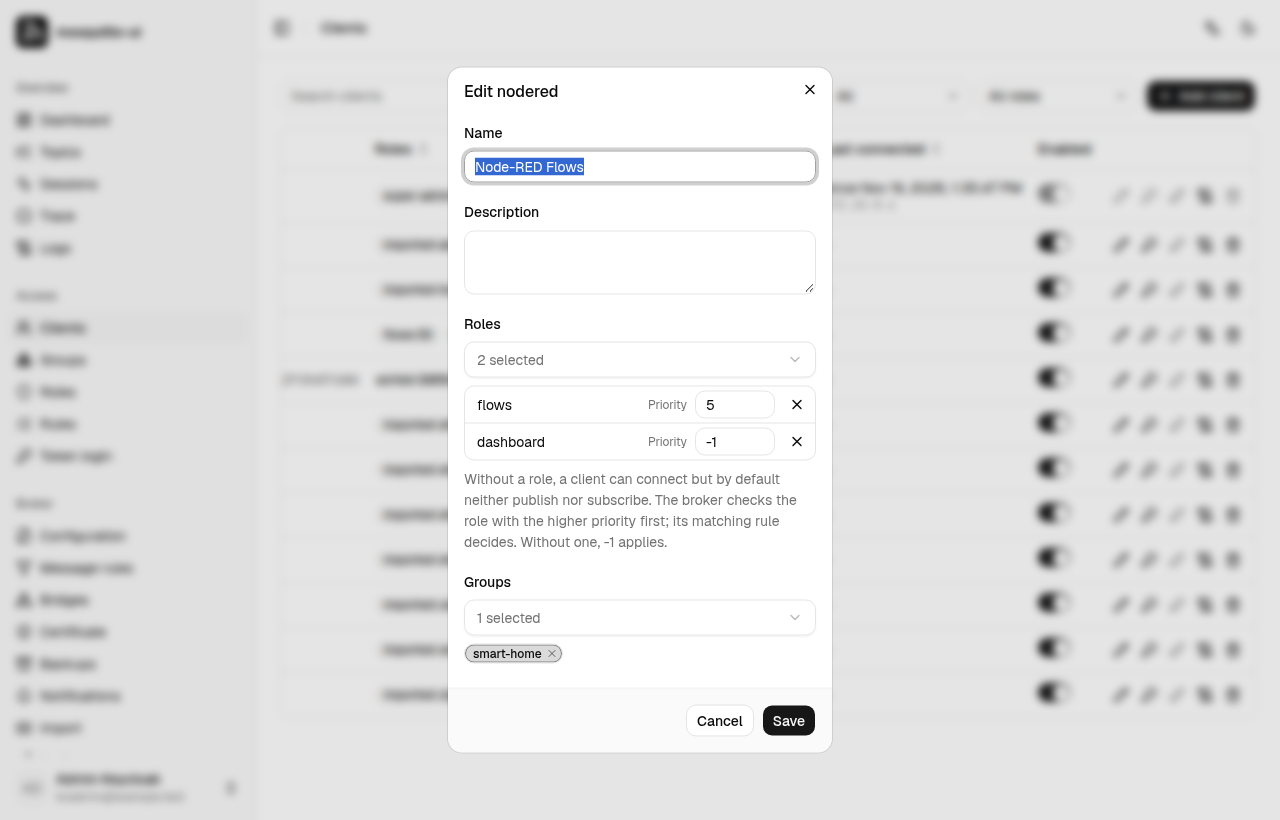
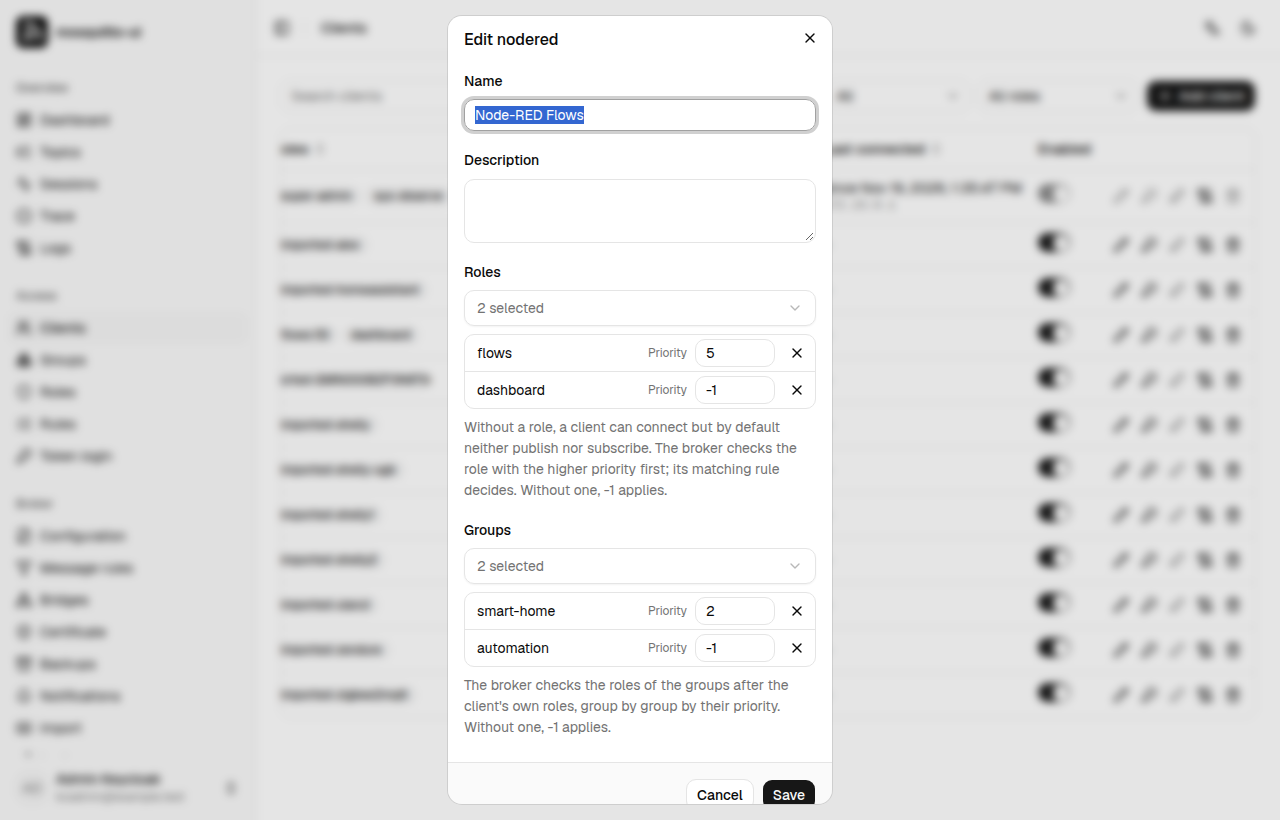
Clients: the priorities of their groups can be set
- The client dialog lists the groups of a client with a field for the priority, like its
  roles; their roles come after the client's own, group by group by that priority. The
  table shows a set priority after the group.
- The API gives groupPriorities with a client and takes them optionally on create and
  update; a group without one keeps its priority, a new one gets -1.
- Handbook (DE/EN/FR): group priorities of a client, screenshot of the client dialog.

Source: 6e5f137d71c133ceec5c84fe2064d2b80f802812

diff --git a/src/main/webui/src/pages/clients.tsx b/src/main/webui/src/pages/clients.tsx
@@ -10,7 +10,7 @@ import { ConfirmDialog } from "@/components/confirm-dialog"
 import { DisconnectHint } from "@/components/disconnect-hint"
 import { BadgeList } from "@/components/badge-list"
 import { MultiSelect } from "@/components/multi-select"
-import { RolePriorities } from "@/components/role-priorities"
+import { PriorityList } from "@/components/priority-list"
 import { PageToolbar } from "@/components/page-toolbar"
 import { SortableHead } from "@/components/sortable-head"
 import { TablePagination } from "@/components/table-pagination"
@@ -25,8 +25,8 @@ import { Spinner } from "@/components/ui/spinner"
 import { Switch } from "@/components/ui/switch"
 import { Table, TableBody, TableCell, TableHead, TableHeader, TableRow } from "@/components/ui/table"
 import { Textarea } from "@/components/ui/textarea"
-import { sameNames, useKickMinimal } from "@/lib/disconnects"
-import { chosenPriorities, prioritySuffix, rolesDiffer } from "@/lib/role-priorities"
+import { useKickMinimal } from "@/lib/disconnects"
+import { chosenPriorities, prioritySuffix, prioritiesDiffer } from "@/lib/priorities"
 import { useErrorToast } from "@/lib/errors"
 import { formatDateTime } from "@/lib/format"
 import { useTable } from "@/lib/use-table"
@@ -223,7 +223,7 @@ export function ClientsPage() {
                     <BadgeList names={client.roles} suffix={(role) => prioritySuffix(client.rolePriorities, role)} />
                   </TableCell>
                   <TableCell className="hidden lg:table-cell">
-                    <BadgeList names={client.groups} />
+                    <BadgeList names={client.groups} suffix={(group) => prioritySuffix(client.groupPriorities, group)} />
                   </TableCell>
                   <TableCell className="hidden md:table-cell" title={client.connections.join(", ")}>
                     <span className="inline-flex items-center gap-2">
@@ -342,19 +342,20 @@ function ClientDialog({ client, onClose }: { client: Client | null; onClose: () 
   const [roles, setRoles] = useState(client?.roles ?? [])
   const [priorities, setPriorities] = useState<Record<string, number>>(client?.rolePriorities ?? {})
   const [groups, setGroups] = useState(client?.groups ?? [])
+  const [groupPriorities, setGroupPriorities] = useState<Record<string, number>>(client?.groupPriorities ?? {})
   // the broker disconnects a client on every change of it, with minimal not for name and description
   const kickMinimal = useKickMinimal()
   const clientChanged =
     client !== null &&
-    (rolesDiffer(client.roles, client.rolePriorities, roles, priorities) || !sameNames(groups, client.groups) || (!kickMinimal && (textname !== client.textname || textdescription !== client.textdescription)))
+    (prioritiesDiffer(client.roles, client.rolePriorities, roles, priorities) || prioritiesDiffer(client.groups, client.groupPriorities, groups, groupPriorities) || (!kickMinimal && (textname !== client.textname || textdescription !== client.textdescription)))
 
   async function submit(event: FormEvent) {
     event.preventDefault()
     try {
       if (client) {
-        await update.mutateAsync({ params: { path: { username: client.username } }, body: { textname, textdescription, roles, groups, rolePriorities: chosenPriorities(roles, priorities) } })
+        await update.mutateAsync({ params: { path: { username: client.username } }, body: { textname, textdescription, roles, groups, rolePriorities: chosenPriorities(roles, priorities), groupPriorities: chosenPriorities(groups, groupPriorities) } })
       } else {
-        await create.mutateAsync({ body: { username, password, textname, textdescription, roles, groups, rolePriorities: chosenPriorities(roles, priorities) } })
+        await create.mutateAsync({ body: { username, password, textname, textdescription, roles, groups, rolePriorities: chosenPriorities(roles, priorities), groupPriorities: chosenPriorities(groups, groupPriorities) } })
       }
       toast.success(t("clients.saved"))
       await queryClient.invalidateQueries({ queryKey: clientsKey })
@@ -397,14 +398,16 @@ function ClientDialog({ client, onClose }: { client: Client | null; onClose: () 
             <Field>
               <FieldLabel>{t("nav.roles")}</FieldLabel>
               <MultiSelect idPrefix="client-role" label={t("nav.roles")} names={allRoles.data?.map((r) => r.rolename) ?? []} selected={roles} onChange={setRoles} chips={false} />
-              <RolePriorities idPrefix="client-role-priority" roles={roles} priorities={priorities} onPriorities={setPriorities} onRemove={(role) => setRoles(roles.filter((r) => r !== role))} />
+              <PriorityList idPrefix="client-role-priority" names={roles} priorities={priorities} onPriorities={setPriorities} onRemove={(role) => setRoles(roles.filter((r) => r !== role))} />
               <FieldDescription>
                 {t("clients.rolesHint")} {roles.length > 1 && t("roles.priorityHint")}
               </FieldDescription>
             </Field>
             <Field>
               <FieldLabel>{t("nav.groups")}</FieldLabel>
-              <MultiSelect idPrefix="client-group" label={t("nav.groups")} names={allGroups.data?.map((g) => g.groupname) ?? []} selected={groups} onChange={setGroups} />
+              <MultiSelect idPrefix="client-group" label={t("nav.groups")} names={allGroups.data?.map((g) => g.groupname) ?? []} selected={groups} onChange={setGroups} chips={false} />
+              <PriorityList idPrefix="client-group-priority" names={groups} priorities={groupPriorities} onPriorities={setGroupPriorities} onRemove={(group) => setGroups(groups.filter((g) => g !== group))} />
+              {groups.length > 0 && <FieldDescription>{t("clients.groupsPriorityHint")}</FieldDescription>}
             </Field>
           </FieldGroup>
           <DisconnectHint count={clientChanged && client.connections.length > 0 ? 1 : 0} />

diff --git a/src/main/webui/src/pages/groups.tsx b/src/main/webui/src/pages/groups.tsx
@@ -9,7 +9,7 @@ import { ConfirmDialog } from "@/components/confirm-dialog"
 import { DisconnectHint } from "@/components/disconnect-hint"
 import { BadgeList } from "@/components/badge-list"
 import { MultiSelect } from "@/components/multi-select"
-import { RolePriorities } from "@/components/role-priorities"
+import { PriorityList } from "@/components/priority-list"
 import { PageToolbar } from "@/components/page-toolbar"
 import { SortableHead } from "@/components/sortable-head"
 import { TablePagination } from "@/components/table-pagination"
@@ -23,7 +23,7 @@ import { Spinner } from "@/components/ui/spinner"
 import { Table, TableBody, TableCell, TableHead, TableHeader, TableRow } from "@/components/ui/table"
 import { Textarea } from "@/components/ui/textarea"
 import { connectedAmong, rolesChangeCanRevoke, useKickMinimal } from "@/lib/disconnects"
-import { chosenPriorities, prioritySuffix, rolesDiffer } from "@/lib/role-priorities"
+import { chosenPriorities, prioritySuffix, prioritiesDiffer } from "@/lib/priorities"
 import { useErrorToast } from "@/lib/errors"
 import { useTable } from "@/lib/use-table"
 
@@ -188,7 +188,7 @@ function GroupDialog({ group, onClose }: { group: Group | null; onClose: () => v
     group !== null &&
     (kickMinimal
       ? rolesChangeCanRevoke(group.roles, roles, allRoles.data, group.rolePriorities, priorities)
-      : textname !== group.textname || textdescription !== group.textdescription || rolesDiffer(group.roles, group.rolePriorities, roles, priorities))
+      : textname !== group.textname || textdescription !== group.textdescription || prioritiesDiffer(group.roles, group.rolePriorities, roles, priorities))
   const disconnected = group
     ? [...(groupChanged ? group.clients : []), ...clients.filter((name) => !group.clients.includes(name)), ...group.clients.filter((name) => !clients.includes(name))]
     : []
@@ -236,7 +236,7 @@ function GroupDialog({ group, onClose }: { group: Group | null; onClose: () => v
             <Field>
               <FieldLabel>{t("nav.roles")}</FieldLabel>
               <MultiSelect idPrefix="group-role" label={t("nav.roles")} names={allRoles.data?.map((r) => r.rolename) ?? []} selected={roles} onChange={setRoles} chips={false} />
-              <RolePriorities idPrefix="group-role-priority" roles={roles} priorities={priorities} onPriorities={setPriorities} onRemove={(role) => setRoles(roles.filter((r) => r !== role))} />
+              <PriorityList idPrefix="group-role-priority" names={roles} priorities={priorities} onPriorities={setPriorities} onRemove={(role) => setRoles(roles.filter((r) => r !== role))} />
               {roles.length > 1 && <FieldDescription>{t("roles.priorityHint")}</FieldDescription>}
             </Field>
             <Field>

diff --git a/docs/handbuch/fr/index.html b/docs/handbuch/fr/index.html
@@ -451,13 +451,14 @@ s'il se connecte, à quoi il s'abonne et si le broker refuse quelque chose.</p><
   <li>Création avec mot de passe, rôles et groupes&nbsp;; activation/désactivation (inactif&nbsp;: ne peut pas se connecter).</li>
   <li><strong>Rôles avec priorité&nbsp;:</strong> la fenêtre montre chaque rôle choisi avec sa priorité&nbsp;; le broker vérifie d'abord la plus élevée
     (voir <a href="#reihenfolge">Comment le broker décide</a>). Sans indication, -1 s'applique&nbsp;; le tableau affiche une autre valeur après le rôle, par exemple <code>sensor (5)</code>.
-    L'enregistrement conserve toutes les priorités, y compris celles des groupes d'un client, qui ne se règlent pas ici.</li>
+    Les groupes d'un client ont aussi une priorité&nbsp;: leurs rôles viennent après les siens, groupe par groupe selon cette priorité.
+    L'enregistrement conserve toutes les priorités que l'on ne modifie pas.</li>
   <li>Sur chaque ligne&nbsp;: modifier, changer le mot de passe, <em>Déconnecter</em> (toutes les connexions de cet identifiant&nbsp;; la plupart des appareils reviennent aussitôt), log, supprimer.</li>
   <li><em>Dernière connexion</em>, avec l'adresse, est mémorisée par l'UI elle-même, qui vérifie toutes les 15 secondes.</li>
   <li>De nouveaux rôles ou groupes déconnectent le client s'il est connecté&nbsp;; la fenêtre le signale avant. Le nom et la description ne touchent pas à la connexion, et enregistrer sans modification n'envoie rien au broker.</li>
   <li>En dessous, un tableau à part pour les clients venus avec un jeton d'accès.</li>
 </ul>
-<figure><img src="img/08-client-bearbeiten.png" alt="Fenêtre de modification d'un client" loading="lazy" width="1280" height="820"><figcaption>Les rôles d'un client avec leur priorité, en dessous ses groupes.</figcaption></figure>
+<figure><img src="img/08-client-bearbeiten.png" alt="Fenêtre de modification d'un client" loading="lazy" width="1280" height="820"><figcaption>Les rôles et les groupes d'un client, chacun avec sa priorité.</figcaption></figure>
 
 <h3 id="s-gruppen">Groupes et rôles</h3>
 <figure><img src="img/10-rollen.png" alt="Rôles avec leurs règles" loading="lazy" width="1280" height="820"><figcaption>Rôles avec leurs règles. Les rôles marqués d'un cadenas appartiennent à l'UI.</figcaption></figure>

diff --git a/docs/handbuch/index.html b/docs/handbuch/index.html
@@ -452,13 +452,14 @@ ob es sich verbindet, was es abonniert und ob der Broker etwas verweigert.</p></
   <li>Anlegen mit Passwort, Rollen und Gruppen; aktiv/inaktiv schalten (inaktiv: kann sich nicht anmelden).</li>
   <li><strong>Rollen mit Priorität:</strong> Im Dialog steht jede gewählte Rolle mit ihrer Priorität; die höhere prüft der Broker zuerst
     (siehe <a href="#reihenfolge">Wie der Broker entscheidet</a>). Ohne Angabe gilt -1, die Tabelle zeigt eine andere hinter der Rolle, etwa <code>sensor (5)</code>.
-    Beim Speichern bleiben alle Prioritäten erhalten, auch die der Gruppen eines Clients, die sich hier nicht setzen lassen.</li>
+    Die Gruppen eines Clients haben ebenso eine Priorität: Ihre Rollen kommen nach den eigenen, Gruppe für Gruppe nach dieser Priorität.
+    Beim Speichern bleiben alle Prioritäten erhalten, die man nicht ändert.</li>
   <li>Je Zeile: bearbeiten, Passwort ändern, <em>Trennen</em> (alle Verbindungen dieses Logins; die meisten Geräte kommen sofort wieder), Log, löschen.</li>
   <li><em>Zuletzt verbunden</em> mit Adresse merkt sich die UI selbst, sie schaut alle 15 Sekunden nach.</li>
   <li>Neue Rollen oder Gruppen trennen den Client, wenn er verbunden ist; der Dialog sagt es vorher. Name und Beschreibung ändern nichts an der Verbindung, Speichern ohne Änderung schickt nichts an den Broker.</li>
   <li>Darunter eine eigene Tabelle für Clients, die mit einem Access-Token gekommen sind.</li>
 </ul>
-<figure><img src="img/08-client-bearbeiten.png" alt="Dialog Client bearbeiten" loading="lazy" width="1280" height="820"><figcaption>Rollen eines Clients mit ihrer Priorität, darunter seine Gruppen.</figcaption></figure>
+<figure><img src="img/08-client-bearbeiten.png" alt="Dialog Client bearbeiten" loading="lazy" width="1280" height="820"><figcaption>Rollen und Gruppen eines Clients, jeweils mit ihrer Priorität.</figcaption></figure>
 
 <h3 id="s-gruppen">Gruppen und Rollen</h3>
 <figure><img src="img/10-rollen.png" alt="Rollen mit ihren Regeln" loading="lazy" width="1280" height="820"><figcaption>Rollen mit ihren Regeln. Rollen mit Schloss gehören zur UI.</figcaption></figure>

diff --git a/docs/handbuch/en/index.html b/docs/handbuch/en/index.html
@@ -449,13 +449,14 @@ whether it connects, what it subscribes to and whether the broker refuses anythi
   <li>Create with password, roles and groups; switch between enabled and disabled (disabled: cannot log in).</li>
   <li><strong>Roles with a priority:</strong> the dialog lists each chosen role with its priority; the broker checks the higher one first
     (see <a href="#reihenfolge">How the broker decides</a>). Without one, -1 applies; the table shows any other after the role, such as <code>sensor (5)</code>.
-    Saving keeps all priorities, also those of the groups of a client, which cannot be set here.</li>
+    The groups of a client have a priority as well: their roles come after its own, group by group by that priority.
+    Saving keeps every priority you do not change.</li>
   <li>Per row: edit, change password, <em>Disconnect</em> (all connections of this login; most devices come straight back), log, delete.</li>
   <li>The UI tracks <em>Last connected</em> with the address itself; it checks every 15 seconds.</li>
   <li>New roles or groups disconnect the client if it is connected; the dialog says so beforehand. Name and description leave the connection alone, and saving without a change sends nothing to the broker.</li>
   <li>Below, a separate table for clients that came with an access token.</li>
 </ul>
-<figure><img src="img/08-client-bearbeiten.png" alt="Edit client dialog" loading="lazy" width="1280" height="820"><figcaption>The roles of a client with their priorities, below its groups.</figcaption></figure>
+<figure><img src="img/08-client-bearbeiten.png" alt="Edit client dialog" loading="lazy" width="1280" height="820"><figcaption>The roles and groups of a client, each with its priority.</figcaption></figure>
 
 <h3 id="s-gruppen">Groups and Roles</h3>
 <figure><img src="img/10-rollen.png" alt="Roles with their rules" loading="lazy" width="1280" height="820"><figcaption>Roles with their rules. Roles with a lock belong to the UI.</figcaption></figure>

diff --git a/src/main/webui/src/components/priority-list.tsx b/src/main/webui/src/components/priority-list.tsx
@@ -4,29 +4,29 @@ import { useTranslation } from "react-i18next"
 
 import { Button } from "@/components/ui/button"
 import { Input } from "@/components/ui/input"
-import { priorityOf } from "@/lib/role-priorities"
+import { priorityOf } from "@/lib/priorities"
 
-/** The chosen roles of a client or group with their priorities; the broker checks the higher one first. */
-export function RolePriorities({
+/** Chosen roles or groups with their priorities; the broker checks the higher one first. */
+export function PriorityList({
   idPrefix,
-  roles,
+  names,
   priorities,
   onPriorities,
   onRemove,
 }: {
   idPrefix: string
-  roles: string[]
+  names: string[]
   priorities: Record<string, number>
   onPriorities: (priorities: Record<string, number>) => void
   onRemove: (role: string) => void
 }) {
   const { t } = useTranslation()
-  if (roles.length === 0) {
+  if (names.length === 0) {
     return null
   }
   return (
     <ul className="divide-y rounded-lg border">
-      {roles.map((role) => (
+      {names.map((role) => (
         <li key={role} className="flex items-center gap-2 py-1 pr-1 pl-3">
           <span className="min-w-0 flex-1 truncate text-sm" title={role}>
             {role}

diff --git a/src/main/webui/src/api/schema.d.ts b/src/main/webui/src/api/schema.d.ts
@@ -2003,6 +2003,9 @@ export interface components {
             rolePriorities?: {
                 [key: string]: number;
             } | null;
+            groupPriorities?: {
+                [key: string]: number;
+            } | null;
         };
         ClientLogin: {
             connectedAt: components["schemas"]["Instant"];
@@ -2017,6 +2020,9 @@ export interface components {
             rolePriorities?: {
                 [key: string]: number;
             } | null;
+            groupPriorities?: {
+                [key: string]: number;
+            } | null;
         };
         ClientView: {
             username: string;
@@ -2028,6 +2034,9 @@ export interface components {
                 [key: string]: number;
             };
             groups: string[];
+            groupPriorities: {
+                [key: string]: number;
+            };
             connections: string[];
             locked: boolean;
             lastLogin: components["schemas"]["ClientLogin"];

diff --git a/src/main/webui/src/lib/disconnects.ts b/src/main/webui/src/lib/disconnects.ts
@@ -1,5 +1,5 @@
 import { $api } from "@/api/client"
-import { priorityOf } from "@/lib/role-priorities"
+import { priorityOf } from "@/lib/priorities"
 
 /**
  * Dynamic security disconnects clients when their rights change, so that the broker checks their subscriptions again. With
@@ -16,12 +16,6 @@ type RoleRules = { rolename: string; allowwildcardsubs: boolean; acls: { acltype
 export function useKickMinimal() {
   const access = $api.useQuery("get", "/api/access")
   return access.data?.kick === "MINIMAL"
-}
-
-export function sameNames(a: readonly string[], b: readonly string[]) {
-  const left = new Set(a)
-  const right = new Set(b)
-  return left.size === right.size && [...left].every((name) => right.has(name))
 }
 
 function isSubscribe(acltype: string) {

diff --git a/src/main/webui/src/i18n/fr.ts b/src/main/webui/src/i18n/fr.ts
@@ -124,6 +124,7 @@ export default {
     passwordDesc: "Dès sa prochaine connexion, le client devra utiliser le nouveau mot de passe.",
     passwordTitle: "Mot de passe de {{name}}",
     rolesHint: "Sans rôle, un client peut se connecter, mais par défaut ni publier ni s'abonner.",
+    groupsPriorityHint: "Le broker vérifie les rôles des groupes après les rôles propres du client, groupe par groupe selon leur priorité. Sans indication, -1 s'applique.",
     saved: "Client enregistré",
     search: "Rechercher des clients",
     username: "Nom d'utilisateur",

diff --git a/src/main/webui/src/i18n/de.ts b/src/main/webui/src/i18n/de.ts
@@ -124,6 +124,7 @@ export default {
     passwordDesc: "Ab der nächsten Verbindung muss sich der Client mit dem neuen Passwort anmelden.",
     passwordTitle: "Passwort von {{name}}",
     rolesHint: "Ohne Rolle kann sich ein Client verbinden, aber standardmäßig weder publizieren noch abonnieren.",
+    groupsPriorityHint: "Die Rollen der Gruppen prüft der Broker nach den eigenen Rollen des Clients, Gruppe für Gruppe nach deren Priorität. Ohne Angabe gilt -1.",
     saved: "Client gespeichert",
     search: "Clients suchen",
     username: "Benutzername",

diff --git a/src/main/webui/src/i18n/en.ts b/src/main/webui/src/i18n/en.ts
@@ -124,6 +124,7 @@ export default {
     passwordDesc: "The client has to log in with the new password from its next connection on.",
     passwordTitle: "Password of {{name}}",
     rolesHint: "Without a role, a client can connect but by default neither publish nor subscribe.",
+    groupsPriorityHint: "The broker checks the roles of the groups after the client's own roles, group by group by their priority. Without one, -1 applies.",
     saved: "Client saved",
     search: "Search clients",
     username: "Username",

diff --git a/src/main/webui/src/lib/priorities.ts b/src/main/webui/src/lib/priorities.ts
@@ -12,8 +12,8 @@ export function prioritySuffix(priorities: Record<string, number> | undefined, r
   return priority === NO_PRIORITY ? undefined : ` (${priority})`
 }
 
-/** Whether the roles or their priorities differ. */
-export function rolesDiffer(
+/** Whether the names (roles or groups) or their priorities differ. */
+export function prioritiesDiffer(
   before: readonly string[],
   beforePriorities: Record<string, number> | undefined,
   after: readonly string[],
